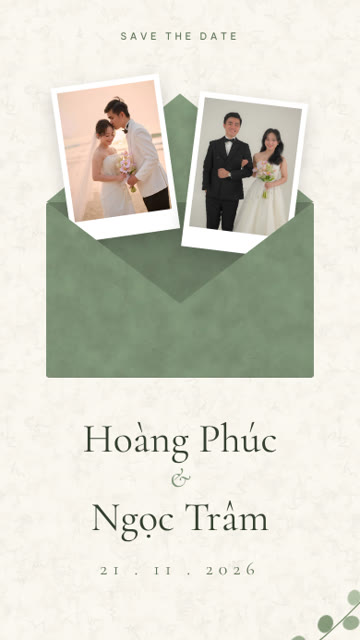
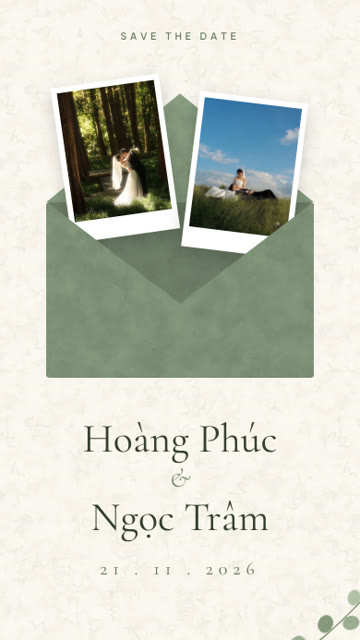
Mẫu 18 (Vườn Xanh): ảnh cưới đồi cỏ và rừng xanh (chủ repo chọn): 2 polaroid trong phong bì, ảnh lớn Our moments, 4 ảnh gallery, nền Thank you
Claude-Session: https://claude.ai/code/session_01V4RDDV9jqM6BBijw6Ese9L

Changed region(s): [[0.1528, 0.125, 0.4889, 0.3438], [0.5194, 0.1562, 0.8556, 0.375]]

diff --git a/my-wed/src/templates/t27/demo-data.ts b/my-wed/src/templates/t27/demo-data.ts
@@ -1,4 +1,11 @@
-import { WeddingData } from "@/core/types";
+import album1 from "@/static/t27/demo/album1.webp";
+import album2 from "@/static/t27/demo/album2.webp";
+import album3 from "@/static/t27/demo/album3.webp";
+import album4 from "@/static/t27/demo/album4.webp";
+import couple from "@/static/t27/demo/couple.webp";
+import cover from "@/static/t27/demo/cover.webp";
+import destiny from "@/static/t27/demo/destiny.webp";
+import { PhotoSlot, WeddingData } from "@/core/types";
 import { demoData as base } from "@/templates/t01/demo-data";
 
 export const demoData: WeddingData = {
@@ -35,4 +42,17 @@ export const demoData: WeddingData = {
     { time: "12:30", label: "CHỤP ẢNH CÙNG CÔ DÂU CHÚ RỂ" },
   ],
   dressColors: ["#7e9276", "#e9e4d6", "#c8b79a", "#3f4a3a"],
+  // outdoor photos in green fields and woods, chosen by the owner
+  photos: {
+    ...base.photos,
+    cover: { key: "cover", label: "Ảnh bìa", ratio: "3/4", src: cover },
+    destiny: { key: "destiny", label: "Ảnh dọc", ratio: "4/5", src: destiny },
+    couple: { key: "couple", label: "Ảnh cặp đôi", ratio: "4/5", src: couple },
+  } as Record<string, PhotoSlot>,
+  album: [
+    { key: "album1", label: "Ảnh album 1", ratio: "4/5", src: album1 },
+    { key: "album2", label: "Ảnh album 2", ratio: "3/4", src: album2 },
+    { key: "album3", label: "Ảnh album 3", ratio: "3/4", src: album3 },
+    { key: "album4", label: "Ảnh album 4", ratio: "3/4", src: album4 },
+  ] as PhotoSlot[],
 };

diff --git a/docs/CREDITS.md b/docs/CREDITS.md
@@ -177,3 +177,7 @@ Cảnh lối vào qua các vòm hoa `gate-arches.webp`, chùm bóng bay `balloon
 ## Mẫu 17 · Song Hỷ đỏ: ảnh cưới mẫu (`my-wed/src/static/t26/demo/`)
 
 `cover.webp`, `couple.webp`, `destiny.webp` và `album1-4.webp` (cắt từ một ảnh lưới 4 ô): ảnh cưới studio phông đỏ có chữ Hỷ, chủ repo chọn (có dấu chỉnh sửa bằng Gemini), **chưa có giấy phép sử dụng** ảnh gốc; chủ repo quyết định dùng làm ảnh minh hoạ. Nếu tác giả yêu cầu gỡ thì thay bằng ảnh có quyền dùng.
+
+## Mẫu 18 · Vườn Xanh: ảnh cưới mẫu (`my-wed/src/static/t27/demo/`)
+
+`cover.webp`, `destiny.webp`, `couple.webp` và `album1-4.webp`: ảnh cưới ngoài trời trên đồi cỏ và trong rừng, chủ repo chọn từ Pinterest, **chưa có giấy phép sử dụng**; chủ repo quyết định dùng làm ảnh minh hoạ. Nếu tác giả yêu cầu gỡ thì thay bằng ảnh có quyền dùng.
